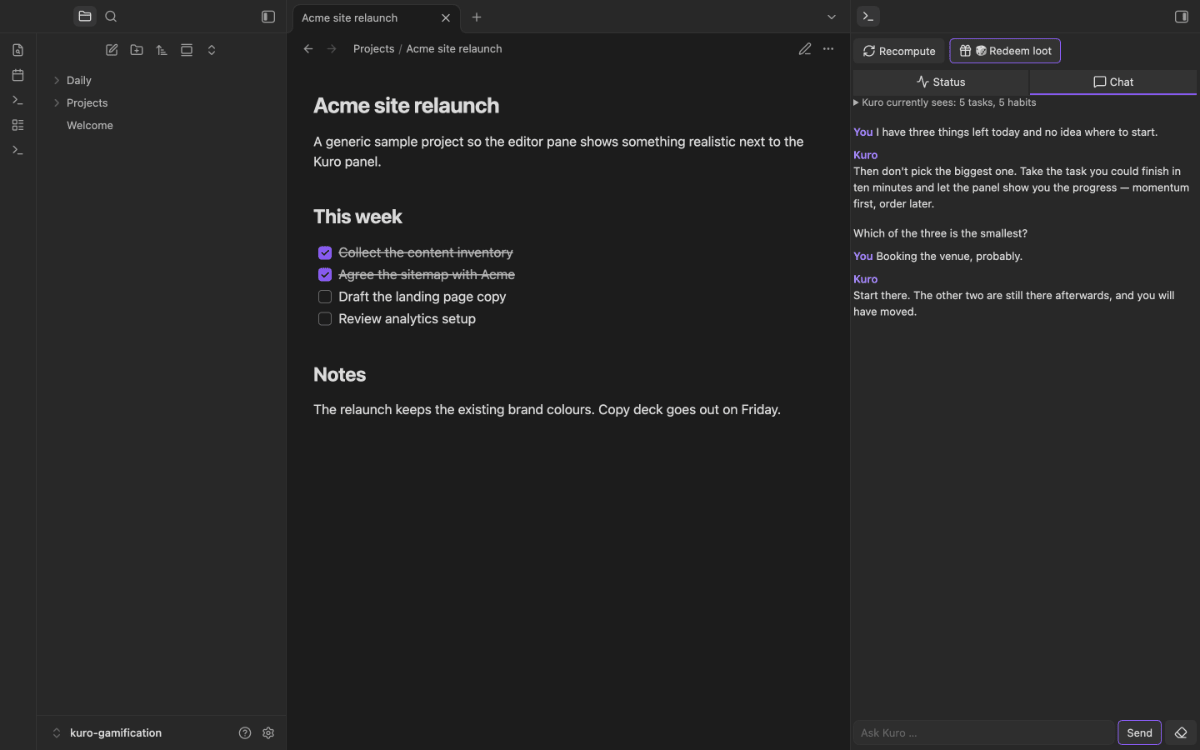
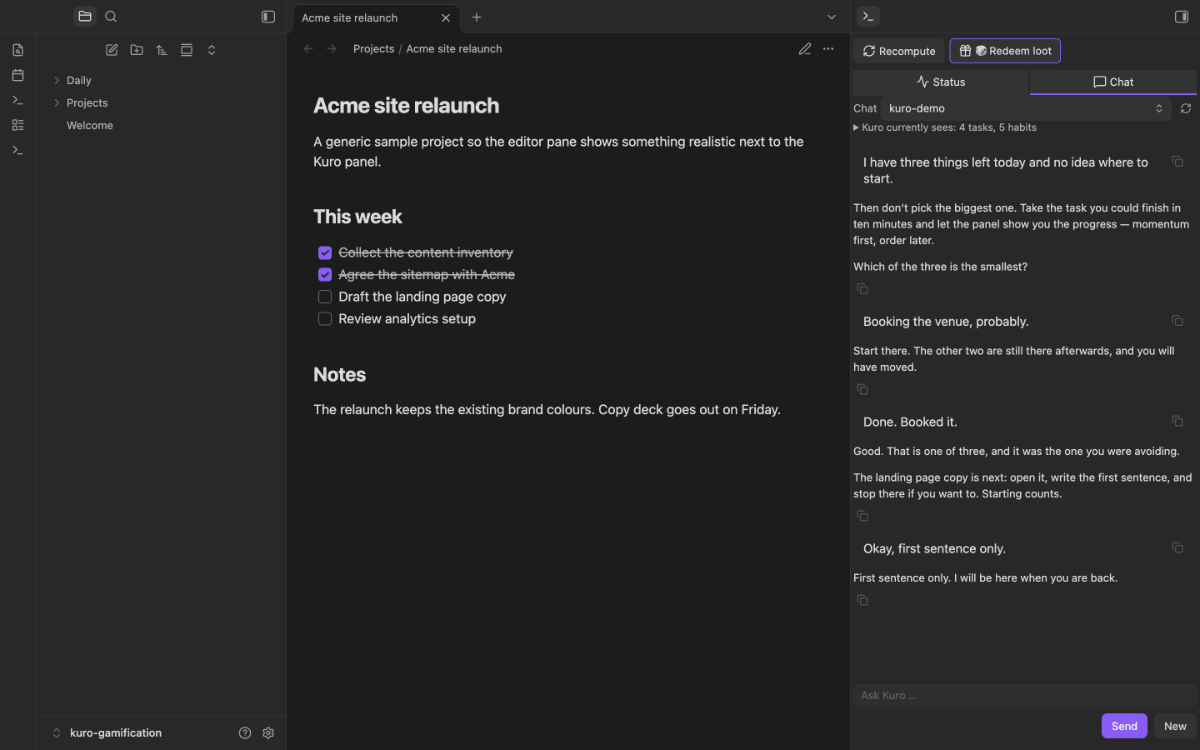
docs(chat): Chat-Fenster, Modellzeile und Claude in README, Fehlertexte, Bild-Vertrag, Smoke-Doku und Regel
chat.png neu aufgenommen (Modellzeile, acht Nachrichten, Notiz links wie im Hero), Troubleshooting
zitiert die Texte des Kit-Fensters, companion-chat.md auf die neuen Dateien und Gotchas umgestellt,
decisions.md hält den offenen Linkschutz und das Warum des Umstiegs fest.

diff --git a/scripts/shots.ts b/scripts/shots.ts
@@ -240,6 +240,9 @@ const SHOTS: Shot[] = [
     name: 'chat.png',
     klasse: 'feature',
     async run(cdp) {
+      // Dieselbe Notiz wie im Hero links: ohne sie stünde ein leerer „New tab“ im Bild, und `--only` ergäbe ein anderes Bild als der Sammellauf.
+      if (!(await openExisting(cdp, 'Projects/Acme site relaunch.md', 'preview'))) return null;
+      await closeExtraLeaves(cdp);
       // Die Modellzeile fragt die Modelle des Endpunkts: ein Stub mit zwei Namen, damit das Bild nicht von einem lokalen Server abhängt.
       const stub = await startLlmStub({ models: ['kuro-demo', 'kuro-demo-small'] });
       try {
@@ -259,6 +262,10 @@ const SHOTS: Shot[] = [
           { kind: 'assistant', text: "Then don't pick the biggest one. Take the task you could finish in ten minutes and let the panel show you the progress — momentum first, order later.\n\nWhich of the three is the smallest?" },
           { kind: 'user', text: 'Booking the venue, probably.' },
           { kind: 'assistant', text: 'Start there. The other two are still there afterwards, and you will have moved.' },
+          { kind: 'user', text: 'Done. Booked it.' },
+          { kind: 'assistant', text: 'Good. That is one of three, and it was the one you were avoiding.\n\nThe landing page copy is next: open it, write the first sentence, and stop there if you want to. Starting counts.' },
+          { kind: 'user', text: 'Okay, first sentence only.' },
+          { kind: 'assistant', text: 'First sentence only. I will be here when you are back.' },
         ].map((z, i) => (z.kind === 'user' ? { ...z, id: i + 1 } : { ...z, id: i + 1, reasoning: '', state: 'done' }));
         await cdp.evaluate(`
           const p = app.plugins.plugins[${JSON.stringify(PLUGIN_ID)}];

diff --git a/.claude/rules/companion-chat.md b/.claude/rules/companion-chat.md
@@ -4,7 +4,7 @@ paths:
   - "src/views/KuroChatPanel.ts"
   - "tests/main-chat*.test.ts"
   - "tests/kuroContext.test.ts"
-  - "tests/ChatSession.test.ts"
+  - "tests/chatRequest.test.ts"
   - "tests/chat-panel.test.ts"
   - "src/views/KuroSidebarView.ts"
   - "src/persistence/DataStore.ts"
@@ -13,7 +13,7 @@ paths:
 
 # Companion-Chat (src/llm/)
 
-Gotchas zum Companion-Chat: Kontext, Prompt-Reihenfolge, Verbindung, Markdown (`src/llm/`, `src/views/KuroChatPanel.ts`).
+Gotchas zum Companion-Chat: Kontext, Prompt-Reihenfolge, Verbindung, Chat-Fenster, Markdown (`src/llm/`, `src/views/KuroChatPanel.ts`).
 
 - **Companion-Chat (`src/llm/`, seit 1.1.0):**
   - **Off-by-default** (`enableChat`). Ist er aus, wird keine Tab-Leiste gezeichnet, kein
@@ -34,5 +34,9 @@ Gotchas zum Companion-Chat: Kontext, Prompt-Reihenfolge, Verbindung, Markdown (`
     mit Obsidian-Mock testbar.
   - **`activePersona` folgt der Lore**, nicht dem Loot — wer die Gothic-Lore aktiviert, will
     auch die Gothic-Stimme.
-  - **Verbindung (seit Kit 0.51.2): `createLlmConnection` ist der einzige Weg zum Endpunkt und zur Anfrage.** `main.ts` erzeugt sie in `onload()` aus den Optionen von `src/llm/kuroConnection.ts` (Modus companion, Budget, Settings-Namen `chatEndpoints`/`chatChoice`/`request`, `truncated: 'error'`); `askKuro` ruft `this.llm.complete`, die Einstellungen zeichnet `this.llm.renderSettings`, die Modellliste liefert `this.llm.models()`. Eigener Resolver, Client-Fabrik, Backend-Probe und Abweichungstexte gibt es nicht mehr — ein Neubau davon ist ein Rückstand. Der Manager wird bei jedem Aufruf frisch gelesen (nie gemerkt), die lokale Auflösung bis `invalidate()`; wer `chatEndpoints` am Tab vorbei ändert (Treiber), ruft danach `llm.invalidate()`. `choice` gilt nur mit Manager; das Modell steht allein auf der Zeile der lokalen Liste (`rowModel`), ein globales `chatModel` gibt es seit 1.10.0 nicht mehr — `DataStore.mergeSettings` verteilt den Altwert einmal über `fillMissingRowModels` auf Zeilen ohne Modell und nimmt den Schlüssel danach aus dem gemergten Objekt (sonst füllt jeder Start eine bewusst geleerte Zeile neu; Test für den zweiten Lauf in `tests/DataStore.test.ts`). API-Schlüssel der lokalen Liste liegen im Obsidian-Schlüsselbund, nie in `data.json` (Prüfpunkt `verbindung/kein-apikey-in-data-json`). Gesendete Texte werden geschwärzt; **modellerzeugter Text geht nur über `createStableWriter` oder `neutralizeModelMarkdown` an einen Renderer** — jeder neue direkte `MarkdownRenderer`-Aufruf auf Modelltext braucht das vorher (Panel: `KuroChatPanel.renderEntry`).
-  - **Markdown im Chat:** `KuroChatPanel` bekommt `renderMarkdown` als Callback (die View liefert `MarkdownRenderer.render(app, …, this)`), damit das Panel weder `App` noch eine Component kennt. Fertige Kuro-Antworten werden gerendert, im Stream schneidet der Kit-`stable-writer` an der Absatzgrenze; eigene Fragen und Fehler bleiben Rohtext. Der Schreiber legt seine Blöcke in `.kuro-chat-stream-content` der laufenden Zeile ab, nicht in den ganzen Log.
+  - **Verbindung (seit Kit 0.51.2): `createLlmConnection` ist der einzige Weg zum Endpunkt und zur Anfrage.** `main.ts` erzeugt sie in `onload()` aus den Optionen von `src/llm/kuroConnection.ts` (Modus companion, Budget, Settings-Namen `chatEndpoints`/`chatChoice`/`request`, `truncated: 'error'`, `transports: { anthropic: true }` = Claude als Endpunkt des Managers); `main.sendChat` ruft `this.llm.complete`, die Einstellungen zeichnet `this.llm.renderSettings`, die Modellliste liefert `this.llm.models()`. Eigener Resolver, Client-Fabrik, Backend-Probe und Abweichungstexte gibt es nicht mehr — ein Neubau davon ist ein Rückstand. Der Manager wird bei jedem Aufruf frisch gelesen (nie gemerkt), die lokale Auflösung bis `invalidate()`; wer `chatEndpoints` am Tab vorbei ändert (Treiber), ruft danach `llm.invalidate()`. `choice` gilt nur mit Manager; das Modell steht allein auf der Zeile der lokalen Liste (`rowModel`), ein globales `chatModel` gibt es seit 1.10.0 nicht mehr — `DataStore.mergeSettings` verteilt den Altwert einmal über `fillMissingRowModels` auf Zeilen ohne Modell und nimmt den Schlüssel danach aus dem gemergten Objekt (sonst füllt jeder Start eine bewusst geleerte Zeile neu; Test für den zweiten Lauf in `tests/DataStore.test.ts`). API-Schlüssel der lokalen Liste liegen im Obsidian-Schlüsselbund, nie in `data.json` (Prüfpunkt `verbindung/kein-apikey-in-data-json`). Gesendete Texte werden geschwärzt; **modellerzeugter Text geht nur über `createStableWriter` oder `neutralizeModelMarkdown` an einen Renderer** — jeder neue direkte `MarkdownRenderer`-Aufruf auf Modelltext braucht das vorher (das Kit-Fenster tut es für alle Antworten; `KuroSidebarView` reicht ihm nur den nackten Renderer).
+  - **Chat-Fenster (seit 1.16.0, Kit-Baustein `buildChatWindow` + Modellzeile `buildModelBar`):** `KuroChatPanel` ist nur noch der **Wirt** im Chat-Tab (mount-once im Hub): Kontextzeile (im `header`, unter der Modellzeile), Einrichtungs-Hinweis (`empty.when`), „merk dir“ (`beforeSubmit` + `win.setDraft('')`) und das Anbinden von `send`, Verlauf und Markdown. Verlauf, Eingabe, Abbruch, Fehlerzeilen, Kopieren und das Rendern von Antworten trägt das Kit; **ein Neubau davon ist ein Rückstand** (Namenszeile „Kuro“, Cursor, Eigenbau-Fehlertexte entfielen mit dem Umstieg).
+  - **Der Verlauf liegt als `chat-history` (JSON) in `plugin.chatHistory`**, nur im Speicher: das Fenster bekommt ihn per `initial`, `onChange` schreibt ihn zurück. `main.sendChat(messages, h)` baut aus `historyForModel` (nur abgeschlossene Runden; Fehler und Abbrüche gehen nie ans Modell) über `llm/chatRequest.splitChatMessages` und `buildMessages` die Anfrage; es reicht **kein `onReasoning`** (Kuro zeigt Denken bewusst nicht) und wirft Fehler vor dem Senden weiter (das Fenster zeigt die Zeile).
+  - **Zeichnen:** `syncChat({ models })` ruft `refresh()` am Panel: wechselt `hasChatEndpointSource()`, zeichnet `win.refresh()` neu (Einrichtungs-Hinweis ↔ Chat), sonst genügt `bar.update()` (und mit `models` `bar.refresh()`). Die Verbindung ruft es nach **jeder** Speicherung (`persist` in `onload`), der Treiber nach einer Änderung am Tab vorbei (`setSetting`). Nie `win.refresh()` ohne Not: es baut Kopf und Bereiche neu und verliert den Zustand der Kontextzeile. `refreshContext()` zieht nur die Kontextzeile nach (`refreshStatus` ruft es bei jeder Notizänderung).
+  - **Tests brauchen das Fake-DOM des Kits** (`tests/vendor/kit/obsidian-mock`, `window-timers` mit `installWindowTimers({ full: true })`; `globalThis.window = globalThis` in jest), `domGuard: false` am Wirt, und in `main-chat.test.ts` eine Stub-Verbindung für die Modellzeile (sonst hängen Netz-Timer am Worker).
+  - **Linkschutz ist ein bekannter Befund, kein Plugin-Bau:** die Kette Kit-Neutralisierung + `MarkdownRenderer.render` kappt `javascript:` und `data:`, nicht `obsidian://`, `file://`, `app://` (gemessen Welle 26, gleich am Tag 1.15.0). Der Smoke-Punkt `chat/linkschutz-skript-schemata` steht rot, bis der Kit-Task „Linkschutz in Modellantworten“ (Welle 27) den Schutz im Fenster hat; nicht von Hand nachbauen.

diff --git a/docs/images/README.md b/docs/images/README.md
@@ -14,7 +14,7 @@ Datei, eine Datei ohne Eintrag und eine Einbettung ohne Vertragszeile sind je ei
 |---|---|---|---|
 | `hero.svg` | — | README (EN+DE), ganz oben | Das gezeichnete Banner. Kein Screenshot, bleibt von Hand gepflegt. |
 | `hero.png` | feature | README (EN+DE), § Features | Das ganze Fenster: eine gewöhnliche Notiz links, das Kuro-Panel rechts. Die ASCII-Box **vollständig** — Level, Titel, Gesamt-XP, Fortschrittsbalken, Streak mit Freeze-Tokens, heutiger Stand. Darunter Loot-Box und Lore-Fragment. |
-| `chat.png` | feature | README (EN+DE), § Companion chat | Dasselbe Fenster mit geöffnetem Chat-Tab: Tab-Leiste (Status · Chat), Kontext-Ausklapper („Kuro currently sees …"), ein Gespräch aus vier Nachrichten, die Eingabezeile **am unteren Rand**. |
+| `chat.png` | feature | README (EN+DE), § Companion chat | Dasselbe Fenster mit geöffnetem Chat-Tab: Tab-Leiste (Status · Chat), Modellzeile („Chat“ mit Modell-Dropdown), Kontext-Ausklapper („Kuro currently sees …"), ein Gespräch aus acht Nachrichten (die Fläche unter dem Gespräch darf nicht leer stehen, `readme_lint` misst Weißraum), Eingabefeld mit „Send“ und „New“ **am unteren Rand**. |
 | `status-block.png` | feature | README (EN+DE), § Status code block | Der `kuro-status`-Codeblock, wie er in einer gewöhnlichen Notiz rendert — mit erklärendem Text darüber und dem Lore-Callout darunter. |
 | `loot-redeem.png` | feature | README (EN+DE), § Features | Der Einlös-Dialog: drei Signale mit Tier-Symbol und Kategorie, Abbrechen/Einlösen. |
 | `settings.png` | detail | README (EN+DE), § Configuration — als 380-px-Vorschau aus `thumbs/`, verlinkt auf die Vollauflösung | Der Einstellungs-Tab **ganz**, alle vierzehn Abschnitte von „General" bis „About". Zu hoch für eine Inline-Einbettung (H/B 7.0) — deshalb Vorschau mit Bildunterschrift. |
@@ -42,7 +42,7 @@ verbietet ihn zu Recht).
 ## Was der Lauf voraussetzt
 
 - **Ein laufendes Obsidian mit offenem Debug-Port**, im Aufnahme-Vault. Kein LM Studio: der
-  Chat-Verlauf wird gesetzt, nicht generiert (s. u.).
+  Chat-Verlauf wird gesetzt, nicht generiert (s. u.), und die Modellzeile fragt einen LLM-Stub der Brücke mit zwei Modellnamen (`kuro-demo`), nie einen echten Server.
 - **Sonst nichts.** Kein Modell, kein Server, keine Zugangsdaten.
 - **Obsidians Oberfläche auf Englisch, bevor `--setup` läuft** (`obsidian.json` `"language": "en"` und `localStorage["language"]`). Der erste Plugin-Start übernimmt die Obsidian-Sprache als Kuro-Sprache; in einer deutschen Instanz zeigt der Einstellungs-Tab trotz `language = "en"` im Rezept deutsche Texte (gemessen 2026-10-10).
 - **Höhe des Einstellungs-Bilds:** `settingsBild` simuliert höchstens 7600 px; mit 14 Abschnitten reichen die früheren 6000 nicht mehr und das Bild endet in Leere vor „Notes“.
@@ -55,11 +55,7 @@ Level, Gesamt-XP, Streak und Tagesstand im Bild hat Kuro daraus selbst ausgerech
 Wert im Treiber ist gesetzt. Feste Datumsangaben wären am Tag nach dem Commit eine
 abgerissene Streak — das Bild dokumentierte dann den Aufnahmetag statt das Plugin.
 
-**2. Der Chat-Verlauf wird gesetzt, gerendert wird echt.** Die vier Nachrichten in
-`chat.png` stehen im Rezept. Ein Modell liefert bei jedem Lauf anderen Text, und zwei
-Aufnahmen sollen dasselbe Bild ergeben. Gesetzt sind nur die Nachrichten — der Weg dorthin
-ist der Produktionspfad (`chatSession` → `renderChat()`), und Kontext-Ausklapper,
-Merkzettel-Stand und Layout im Bild sind damit echt.
+**2. Der Chat-Verlauf wird gesetzt, gerendert wird echt.** Die acht Nachrichten in `chat.png` stehen im Rezept als `chat-history`-Daten. Ein Modell liefert bei jedem Lauf anderen Text, und zwei Aufnahmen sollen dasselbe Bild ergeben. Gesetzt sind nur die Nachrichten (`plugin.chatHistory`, danach `syncChatUI()`) — der Weg dorthin ist der Produktionspfad (das Kit-Fenster bekommt sie als `initial`), und Modellzeile, Kontext-Ausklapper und Layout im Bild sind damit echt.
 
 ## Was der Treiber am Wirt ändert (und warum)
 

diff --git a/README.de.md b/README.de.md
@@ -186,7 +186,7 @@ Das Snippet stylt `pre.kuro-status`, `pre.kuro-loot` und die Callouts `[!kuro]`,
 
 <img src="https://raw.githubusercontent.com/johannes-kaindl/kuro-gamification/main/docs/images/chat.png" width="600" alt="Companion chat in der Kuro-Seitenleiste">
 
-<sub>Der Companion-Chat in der Seitenleiste; der Ausklapper zeigt, was tatsächlich gesendet wird.</sub>
+<sub>Der Companion-Chat in der Seitenleiste: oben die Modellzeile, darunter der Ausklapper, der zeigt, was tatsächlich gesendet wird.</sub>
 
 Kuro kann mit dir reden: fragen, womit du anfangen sollst, sagen, dass du feststeckst, oder
 den Tag laut durchdenken. Der Chat ist **standardmäßig aus** — solange `Chat aktiv` aus ist,
@@ -198,7 +198,9 @@ keinen voreingestellten Anbieter und keinen Cloud-Default; gedacht ist er für e
 Server wie [LM Studio](https://lmstudio.ai) (`http://localhost:1234`) oder
 [Ollama](https://ollama.com) (`http://localhost:11434`).
 
-Ist das Plugin **LLM Endpoint Manager** installiert, holt sich der Chat Endpunkte und Modell von dort, und die Einstellungen zeigen statt der Liste dessen Endpunktwahl.
+Ist das Plugin **LLM Endpoint Manager** installiert, holt sich der Chat Endpunkte und Modell von dort, und die Einstellungen zeigen statt der Liste dessen Endpunktwahl. Ein Endpunkt des Managers, der die **Claude-API** nutzt, funktioniert ebenfalls; dafür gibt es keine eigene Einstellung.
+
+**Den Chat bedienen.** Die Eingabe ist ein mehrzeiliges Feld: <kbd>Enter</kbd> sendet, <kbd>Umschalt</kbd>+<kbd>Enter</kbd> beginnt eine neue Zeile, <kbd>Esc</kbd> stoppt eine laufende Antwort. **Neu** leert das Gespräch und stoppt eine laufende Antwort; jede Frage und jede Antwort hat einen Kopier-Knopf, und eine gescheiterte Antwort lässt sich erneut senden. Die **Modellzeile** über dem Gespräch zeigt, welches Modell der Chat benutzt, und wechselt es: die Modelle des aktiven Endpunkts, *Automatisch* (das Standardmodell des Endpunkts), ein Neu-laden-Knopf und, mit dem LLM Endpoint Manager, *Anderer Endpunkt …*, das die Einstellungen des Managers öffnet. Die Zeile ist gesperrt, solange eine Antwort läuft.
 
 Ein API-Schlüssel, den du für einen lokalen Endpunkt einträgst, liegt im **Obsidian-Schlüsselbund**, nicht in der `data.json` des Plugins. Bevor eine Frage rausgeht, ersetzt das Plugin Schlüssel, Tokens, `Bearer`-Header und Private-Key-Blöcke in deinem Text durch Platzhalter; in der Antwort siehst du wieder dein Original. Auf die ersten Daten wartet der Chat bis zu 10 Minuten (ein Modell, das noch lädt), danach bis zu 2 Minuten Stille. Bilder, ausführbare Codeblöcke und HTML in einer Antwort werden als einfacher Text gezeigt, nicht gerendert.
 

diff --git a/README.md b/README.md
@@ -185,7 +185,7 @@ The snippet styles `pre.kuro-status`, `pre.kuro-loot`, and the `[!kuro]`, `[!lev
 
 <img src="https://raw.githubusercontent.com/johannes-kaindl/kuro-gamification/main/docs/images/chat.png" width="600" alt="Companion chat in the Kuro sidebar">
 
-<sub>The companion chat in the sidebar, with the context disclosure showing exactly what gets sent.</sub>
+<sub>The companion chat in the sidebar: the model row on top, the context disclosure showing exactly what gets sent.</sub>
 
 Kuro can talk to you: ask what to start with, say you're stuck, or think out loud about the
 day. It is **off by default** — while `Enable chat` is off, the plugin makes no network
@@ -196,7 +196,9 @@ preset provider and no cloud default; it is meant for a local server such as
 [LM Studio](https://lmstudio.ai) (`http://localhost:1234`) or
 [Ollama](https://ollama.com) (`http://localhost:11434`).
 
-If you have the **LLM Endpoint Manager** plugin installed, the chat takes its endpoints and model from there instead, and the settings show the manager's endpoint choice in place of the list.
+If you have the **LLM Endpoint Manager** plugin installed, the chat takes its endpoints and model from there instead, and the settings show the manager's endpoint choice in place of the list. An endpoint of the manager that uses the **Claude API** works too; no extra setting is needed.
+
+**Using the chat.** The input is a multi-line field: <kbd>Enter</kbd> sends, <kbd>Shift</kbd>+<kbd>Enter</kbd> starts a new line, <kbd>Esc</kbd> stops a running answer. **New** clears the conversation and stops a running answer; every question and answer has a copy button, and a failed answer can be sent again. The **model row** above the conversation shows which model the chat uses and switches it: the models of the active endpoint, *Automatic* (the endpoint's default model), a reload button and, with the LLM Endpoint Manager, *Other endpoint …*, which opens the manager's settings. The row is locked while an answer is running.
 
 An API key you enter for a local endpoint is stored in **Obsidian's keychain**, not in the plugin's `data.json`. Before a question is sent, keys, tokens, `Bearer` headers and private-key blocks in your text are replaced by placeholders; the answer shows your original again. The chat waits up to 10 minutes for the first data (a model that is still loading), then up to 2 minutes of silence. Pictures, executable code blocks and HTML in an answer are shown as plain text, not rendered.
 

diff --git a/docs/troubleshooting.md b/docs/troubleshooting.md
@@ -76,19 +76,21 @@ Each entry starts with what you see — the wording is the plugin's own English 
 
 > No endpoint reachable. Check the endpoint list in the settings — the test button says which one answers.
 
-> Could not reach the endpoint.
+> Could not reach the endpoint — server down, wrong address, or network/VPN not connected.
 
-> Nothing has come from the endpoint for {seconds} seconds.
+> No answer from the model for {seconds} s — it may still be loading or is stuck. Try again.
 
 **Cause:** the chat is optional and off by default. When it is on, none of the addresses in its endpoint list answered, or the server sent nothing for too long. The chat waits up to 10 minutes for the first data (a model that is still loading) and ends an answer after 2 minutes without data. These times are fixed; there is no setting for them.
 
-**Fix:** start your local model server and load a model, then check the endpoint list under **Settings → 💬 Kuro chat** (the **Test connection** button shows what the server answers). With the LLM Endpoint Manager installed, the endpoints come from there instead. The error line also names the reason the manager or the list gave.
+**Fix:** start your local model server and load a model, then check the endpoint list under **Settings → 💬 Kuro chat** (the **Test connection** button shows what the server answers). With the LLM Endpoint Manager installed, the endpoints come from there instead. The error line also names the reason the manager or the list gave; for an HTTP error from the server it names the server's own reason.
 
 ## "The answer was cut off at the token limit"
 
 > The answer was cut off before the first word — thinking used up the token limit.
 
-**Cause:** the model hit the token budget while answering, or used it all for thinking before the first word.
+> The answer was cut off at the token limit.
+
+**Cause:** the model hit the token budget while answering (the second line, shown under the answer that came), or used it all for thinking before the first word (the first line).
 
 **Fix:** under **Settings → 💬 Kuro chat → Request** set **Thinking level** to *off* or *low*, or raise **Token budget (max_tokens)**.
 

diff --git a/docs/internal/decisions.md b/docs/internal/decisions.md
@@ -14,6 +14,12 @@ Verdichtete Design-Essenz zu den Regeln im Kern (`AGENTS.md`) und in `.claude/ru
   öffentlich, die hartkodierte Konstante (1.12.7) war schlicht veraltet. Sie ist im Dach
   nachgezogen worden, mitsamt Mess-Datum und Quelle im Kommentar.
 
+## Warum der Chat das Kit-Fenster trägt und der Linkschutz offen bleibt (2026-10-24)
+
+Der Chat-Tab baut `buildChatWindow` und `buildModelBar` des Kits (UI-STANDARD § 8, Bausteine 12 und 15). Vier Chat-Plugins hatten dasselbe Fenster je für sich gebaut; das Kit trägt jetzt Verlauf, Eingabe, Abbruch, Fehlerzeilen und Markdown, und Kuro hält nur, was Kuro selbst sagt: Prompt und Kontext (`main.sendChat`, `llm/chatRequest`), die Kontextzeile, den Einrichtungs-Hinweis und „merk dir“. Die Namenszeile „Kuro“ über den Antworten gibt es im Kit-Fenster nicht; sie wurde nicht nachgebaut (Entscheidung steht beim Master).
+
+Der **Linkschutz** ist ein offener Befund, kein Umbau-Schaden: `neutralizeModelMarkdown` plus `MarkdownRenderer.render` kappen `javascript:` und `data:`, nicht `obsidian://`, `file://`, `app://`. Gemessen am echten Fenster und am Tag 1.15.0 mit derselben Sechs-Links-Probe, das Ergebnis ist gleich. Eine eigene Kappung neben dem Kit-Fenster wäre ein Doppelbau (anders als bei settings-assistant, dessen altes Panel `stripActiveContent` hatte); der Schutz kommt mit dem Kit-Task „Linkschutz in Modellantworten“. Bis dahin bleibt der Smoke-Punkt `chat/linkschutz-skript-schemata` rot und trägt den Hinweis.
+
 ## Herkunft: das Container-Repo vor v1.0.0
 
 Vor v1.0.0 lebte dieses Plugin in einem verschachtelten Container-Repo
